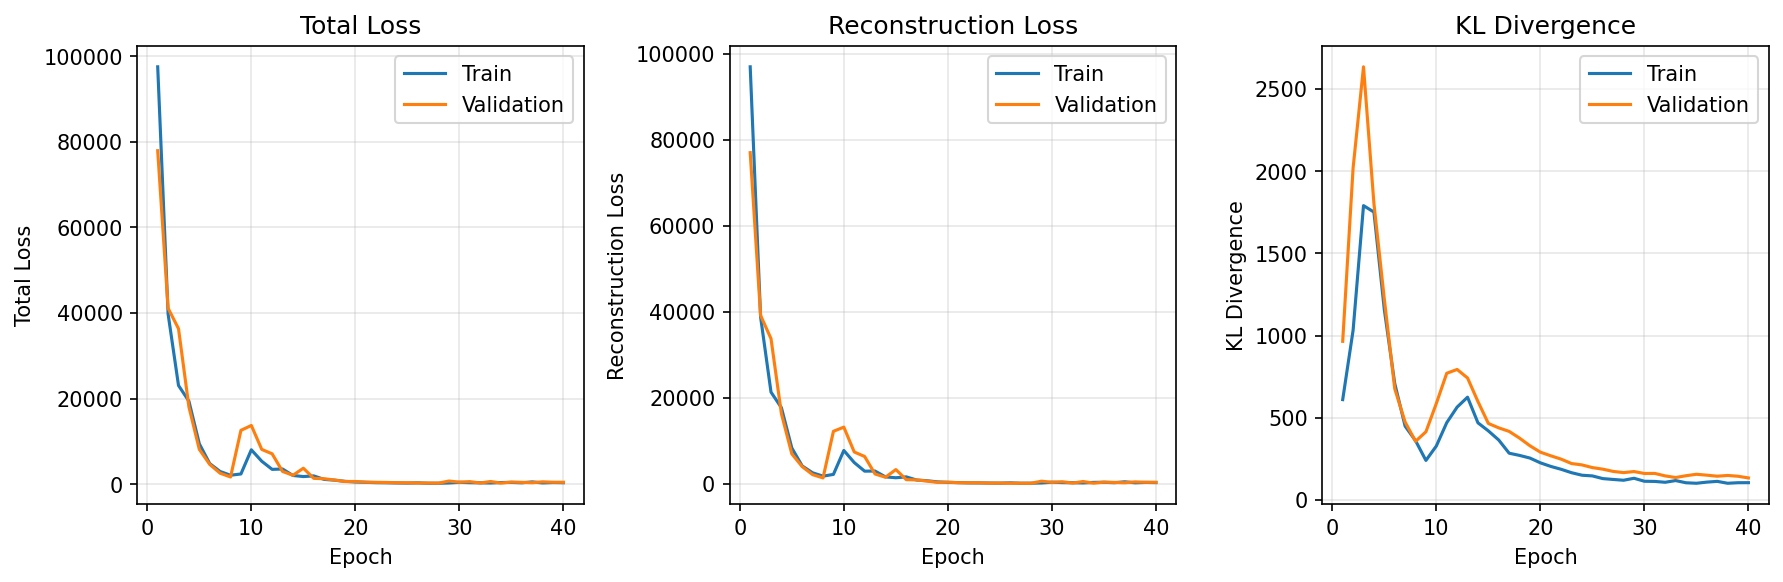
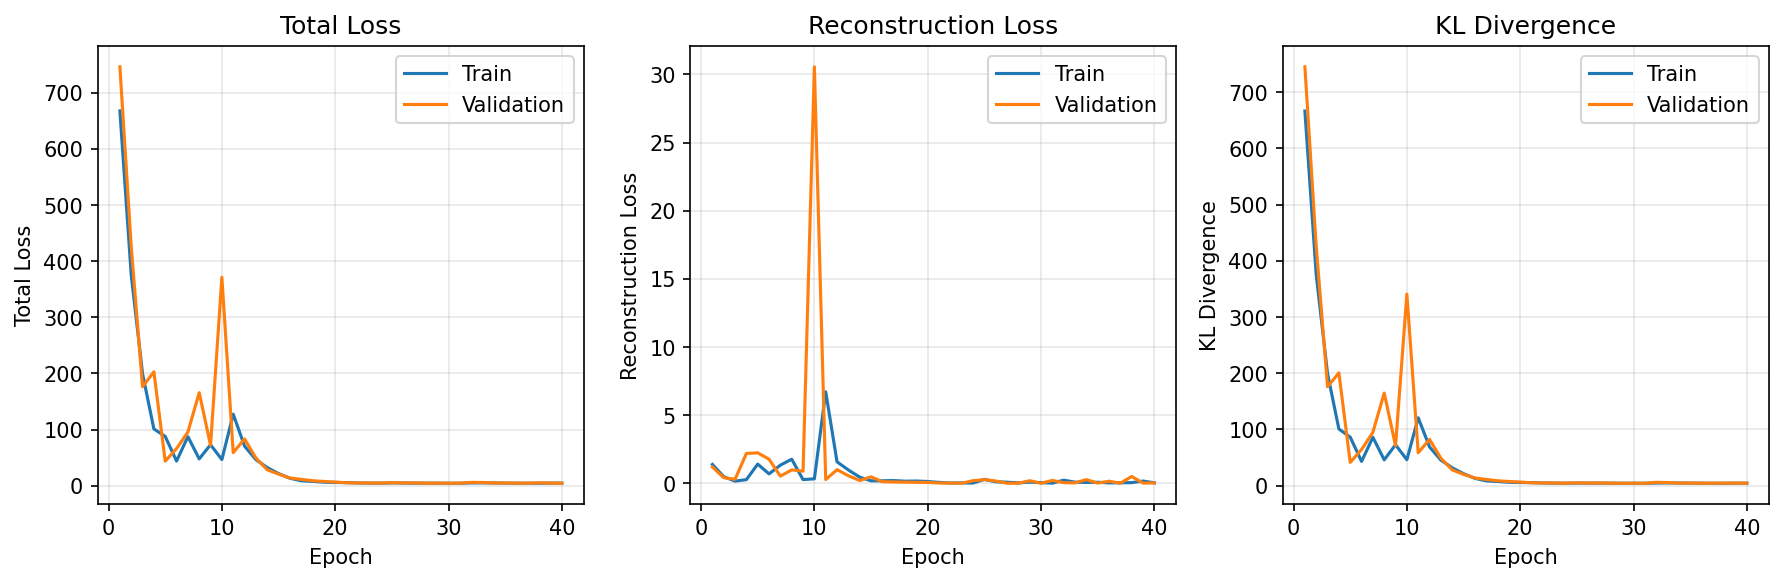
separated configurations for training and model setup

diff --git a/src/neuroae/__main__.py b/src/neuroae/__main__.py
@@ -15,43 +15,51 @@ from .utils import *
 from .load_data import load_adni, prepare_data_loaders
 
 
-def load_filter_config(filter_config_path):
-    filter_config = configparser.ConfigParser()
-    filter_config.read(filter_config_path)
-    return filter_config
+def load_config(config_path):
+    conf = configparser.ConfigParser()
+    conf.read(config_path)
+    return conf
 
 def main():
     """Main function for training and inference."""
     parser = argparse.ArgumentParser(description='Train VAE models or run inference on ADNI-B data')
     parser.add_argument(
-        '--mode',
+        '-m', '--mode',
         type=str,
         default='train',
         choices=['train', 'inference', 'load'],
-        help='Mode: train, inference, or just load data'
+        help='Mode: train, inference, or just load data (default: train)'
     )
     parser.add_argument(
-        '--data-dir',
+        '-d', '--data-dir',
         type=pathlib.Path,
         default=project_path / "data",
         help='Path to data directory (default: ./data)'
     )
     parser.add_argument(
-        '--batch-size',
-        type=int,
-        default=32,
-        help='Batch size for DataLoaders'
-    )
-    parser.add_argument(
-        '--no-flatten',
-        action='store_true',
-        help='Keep timeseries as 2D (N_ROIs, T_timepoints). Default is to flatten to 1D.'
-    )
-    parser.add_argument(
-        '--filter-config',
+        '--data-config',
         type=pathlib.Path,
-        default=project_path / "config" / "filter.yml",
-        help='Path to filter configuration file (default: ./config/filter.yml)'
+        default=project_path / "config" / "data.yml",
+        help='Path to data configuration file (default: ./config/data.yml)'
+    )
+    parser.add_argument(
+        '--model-config',
+        type=pathlib.Path,
+        default=project_path / "config" / "model.yml",
+        help='Path to model configuration file (default: ./config/model.yml)'
+    )
+    parser.add_argument(
+        '--training-config',
+        type=pathlib.Path,
+        default=project_path / "config" / "training.yml",
+        help='Path to training configuration file (default: ./config/training.yml)'
+    )
+    parser.add_argument(
+        '--device',
+        type=str,
+        default='mps',
+        choices=['cpu', 'cuda', 'mps'],
+        help='Device to use for training and inference (default: mps)'
     )
     
     args = parser.parse_args()
@@ -62,22 +70,22 @@ def main():
     
     # Load ADNI data
     print(f"\nLoading ADNI-B dataset...")
-    filter_config = load_filter_config(args.filter_config)
-    if 'BandPassFilter' in filter_config:
+    data_config = load_config(args.data_config)
+    if 'filter' in data_config and data_config['filter']['type'] == 'BandPassFilter':
         filter = BandPassFilter(
-            tr=float(filter_config['BandPassFilter']['tr']),
-            flp=float(filter_config['BandPassFilter']['flp']),
-            fhi=float(filter_config['BandPassFilter']['fhi']),
-            k=int(filter_config['BandPassFilter']['k']),
-            remove_artifacts=filter_config['BandPassFilter']['remove_artifacts'],
-            apply_demean=filter_config['BandPassFilter']['apply_demean'],
-            apply_detrend=filter_config['BandPassFilter']['apply_detrend'],
-            apply_finalDetrend=filter_config['BandPassFilter']['apply_finalDetrend'],
+            tr=float(data_config['filter']['tr']),
+            flp=float(data_config['filter']['flp']),
+            fhi=float(data_config['filter']['fhi']),
+            k=int(data_config['filter']['k']),
+            remove_artifacts=data_config['filter']['remove_artifacts'],
+            apply_demean=data_config['filter']['apply_demean'],
+            apply_detrend=data_config['filter']['apply_detrend'],
+            apply_finalDetrend=data_config['filter']['apply_finalDetrend'],
         )
-        print(f"Filter configuration found in {args.filter_config}")
+        print(f"Filter configuration found in {args.data_config}")
     else:
         filter = None
-        print(f"No filter configuration found in {args.filter_config}")
+        print(f"No filter configuration found in {args.data_config}")
     data_loader = load_adni(
         data_dir=args.data_dir,
         filter=filter,
@@ -94,12 +102,14 @@ def main():
     
     # Prepare PyTorch DataLoaders
     print(f"\nPreparing PyTorch DataLoaders...")
-    flatten = not args.no_flatten  # Default is True (flatten)
     loaders = prepare_data_loaders(
         data_loader,
-        batch_size=args.batch_size,
-        flatten=flatten,
-        normalize=False,
+        batch_size=int(data_config['data']['batch_size']),
+        flatten=data_config['data']['flatten'],
+        normalize=data_config['data']['normalize'],
+        train_split=float(data_config['data']['train_split']),
+        val_split=float(data_config['data']['val_split']),
+        random_seed=int(data_config['data']['random_seed']),
     )
     
     print(f"\nDataLoader information:")
@@ -107,19 +117,18 @@ def main():
     print(f"  Number of samples:")
     for split, num in loaders['num_samples'].items():
         print(f"    {split}: {num}")
-
-    breakpoint()
     
     # Mode-specific actions
     if args.mode == 'load':
         # Just load and display data
         print(f"\nTesting data loading...")
         sample_batch = next(iter(loaders['train_loader']))
-        if isinstance(sample_batch, tuple):
+        if isinstance(sample_batch, tuple) or isinstance(sample_batch, list):
             batch_data, batch_labels = sample_batch
             print(f"  Batch shape: {batch_data.shape}")
             print(f"  Batch labels: {batch_labels[:5]}...")  # Show first 5 labels
         else:
+            breakpoint()
             print(f"  Batch shape: {sample_batch.shape}")
         
         print("\n" + "=" * 60)
@@ -132,21 +141,27 @@ def main():
         print("Training mode")
         print("=" * 60)
 
-        # running on mac
-        device = 'mps'
-
         from .models import BasicVAE
         from .train import train_vae_basic, plot_training_history
-        model = BasicVAE(input_dim=78800, device=device)
+
+        model_config = load_config(args.model_config)
+        model_name = model_config['model']['name']
+        if model_name == "BasicVAE":
+            model = BasicVAE(input_dim=78800, device=args.device)
+        else:
+            raise ValueError(f"Model name {model_name} not supported")
+
+        training_config = load_config(args.training_config)
         # train full model first    
         history = train_vae_basic(
             model,
             loaders['train_loader'],
             loaders['val_loader'],
-            num_epochs=40,
-            learning_rate=1e-3,
-            device=device,
-            loss_per_feature=False
+            num_epochs=int(training_config['training']['num_epochs']),
+            learning_rate=float(training_config['training']['learning_rate']),
+            loss_per_feature=training_config['training']['loss_per_feature'],
+            kld_weight=float(training_config['training']['kld_weight']),
+            device=args.device,
         )
         os.makedirs('plots', exist_ok=True)
         plot_training_history(history, save_path='plots/basicVAE_training_history.png', show=False)
@@ -157,26 +172,21 @@ def main():
         # TODO: Add inference logic here
         print("\n" + "=" * 60)
         print("Inference mode")
-        print("=" * 60)
-
-        # running on mac
-        device = 'mps'
+        print("=" * 60) 
 
         from .models import BasicVAE
         from .inference import inference_vae_basic
-        model = BasicVAE(input_dim=78800, device=device)
+        model = BasicVAE(input_dim=78800, device=args.device)
         model.load_state_dict(torch.load('checkpoints/best_model.pt'))
         inference_vae_basic(
             model,
             loaders['test_loader'],
-            device=device,
+            device=args.device,
             loss_per_feature=True,
             num_examples=3,
             plot_dir='plots'
         )
 
-    return data_loader, loaders
-
 
 if __name__ == '__main__':
-    data_loader, loaders = main()
+    main()

diff --git a/src/neuroae/train.py b/src/neuroae/train.py
@@ -10,7 +10,7 @@ import numpy as np
 import matplotlib.pyplot as plt
 
 
-def loss_function(x, x_hat, mu, log_var, error_per_feature=True):
+def loss_function(x, x_hat, mu, log_var, error_per_feature=True, kld_weight=1.0):
     # if selected error per feature, we are averaging everything
     if error_per_feature:
         # recon: mean mse loss
@@ -30,36 +30,9 @@ def loss_function(x, x_hat, mu, log_var, error_per_feature=True):
         kld = -0.5 * (1 + log_var - mu.pow(2) - log_var.exp())
         kld = kld.sum(dim=1).mean() / log_var.size(1)
 
-    return recon + kld, recon, kld
+    return recon + kld_weight * kld, recon, kld
 
 import math
-
-def denormalise_losses(recon, kld, min_val, max_val, input_dim, latent_dim, error_per_feature=True):
-
-    R = max_val - min_val  # global range
-
-    # Convert recon to per-feature MSE (normalized space)
-    if not error_per_feature:
-        mse_norm_per_feature = recon / input_dim
-    else:
-        mse_norm_per_feature = recon
-
-    rmse_norm_per_feature = math.sqrt(mse_norm_per_feature)
-
-    # Convert to original units
-    mse_orig_per_feature = mse_norm_per_feature * (R ** 2)
-    rmse_orig_per_feature = rmse_norm_per_feature * R
-
-    # KL is unitless — just make it interpretable
-    kld_per_dim = kld / latent_dim
-
-    return {
-        "mse_norm_per_feature": mse_norm_per_feature,
-        "rmse_norm_per_feature": rmse_norm_per_feature,
-        "mse_orig_per_feature": mse_orig_per_feature,
-        "rmse_orig_per_feature": rmse_orig_per_feature,
-        "kld_per_dim": kld_per_dim,
-    }
 
 
 def train_vae_basic(
@@ -71,6 +44,7 @@ def train_vae_basic(
     loss_per_feature=True,
     device='cuda' if torch.cuda.is_available() else 'cpu',
     save_dir='./checkpoints',
+    kld_weight=1.0,
 ):
     history = {
         'train_loss': [],
@@ -101,7 +75,7 @@ def train_vae_basic(
             optimizer.zero_grad()
             
             recon_x, mu, logvar, z = model(x)
-            loss, recon, kld = loss_function(x, recon_x, mu, logvar, loss_per_feature)
+            loss, recon, kld = loss_function(x, recon_x, mu, logvar, loss_per_feature, kld_weight)
             train_loss += loss.item()
             train_reproduction_loss += recon.item()
             train_KLD += kld.item()
@@ -123,7 +97,7 @@ def train_vae_basic(
             for batch_idx, (data, _) in enumerate(val_loader):
                 x = data.to(device)
                 recon_x, mu, logvar, z = model(x)
-                loss, recon, kld = loss_function(x, recon_x, mu, logvar, loss_per_feature)
+                loss, recon, kld = loss_function(x, recon_x, mu, logvar, loss_per_feature, kld_weight)
                 val_loss += loss.item()
                 val_reproduction_loss += recon.item()
                 val_KLD += kld.item()
@@ -147,18 +121,6 @@ def train_vae_basic(
             torch.save(model.state_dict(), f'{save_dir}/best_model.pt')
             
     print("Training complete!")
-
-    # print("Calculated denormalised losses for best model:")
-    # train_unnorm_losses = denormalise_losses(train_reproduction_loss, train_KLD, train_loader.dataset.data_min, train_loader.dataset.data_max, 78800, 64, loss_per_feature)
-    # val_unnorm_losses = denormalise_losses(val_reproduction_loss, val_KLD, train_loader.dataset.data_min, train_loader.dataset.data_max, 78800, 64, loss_per_feature)
-    # print(f"Train:")
-    # print(f"\tRMSE per feature: {train_unnorm_losses['rmse_orig_per_feature']}")
-    # print(f"\tKLD per dim: {train_unnorm_losses['kld_per_dim']}")
-    # print(f"Validation:")
-    # print(f"\tRMSE per feature: {val_unnorm_losses['rmse_orig_per_feature']}")
-    # print(f"\tKLD per dim: {val_unnorm_losses['kld_per_dim']}")
-
-
     return history
 
 
